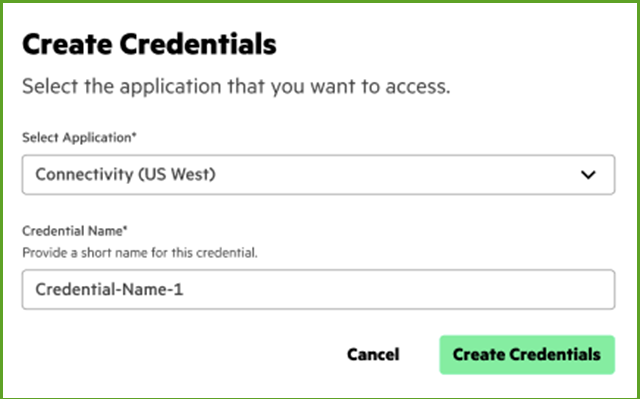
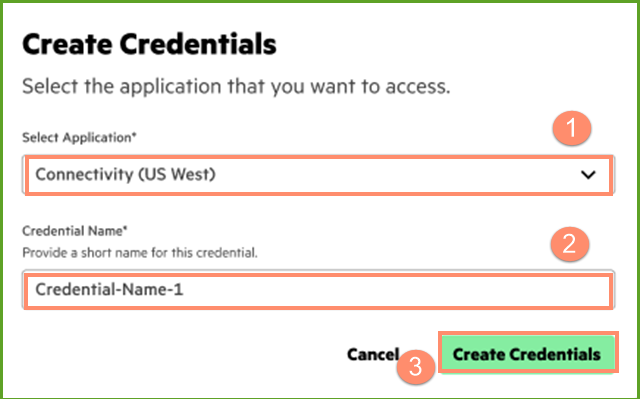
Update Blog “api-console-for-data-services-cloud-console”

Changed region(s): [[0.0312, 0.5714, 0.9688, 0.782], [0.0312, 0.2707, 0.9688, 0.5113], [0.5938, 0.812, 0.9688, 0.9624]]

diff --git a/content/blog/api-console-for-data-services-cloud-console.md b/content/blog/api-console-for-data-services-cloud-console.md
@@ -42,3 +42,9 @@ Given that there is no client applications created, user will press the generate
 Note that to create the credentials for the OAuth, you have to provide the application and the name of this credential. Select the Data Services Cloud Console Application on the appropriate region where the console are deployed for this organization.
 
 ![Select Application and Enter the name of this credentials](/img/create-credential-filled.png "Complete Credential and applications")
+
+Once the Create Credential is selected, the following information about the OAuth will be shown.
+
+![](/img/api-client-credential-created.png)
+
+After closing the credential creation menu, user can observe the created API Client Credentials
